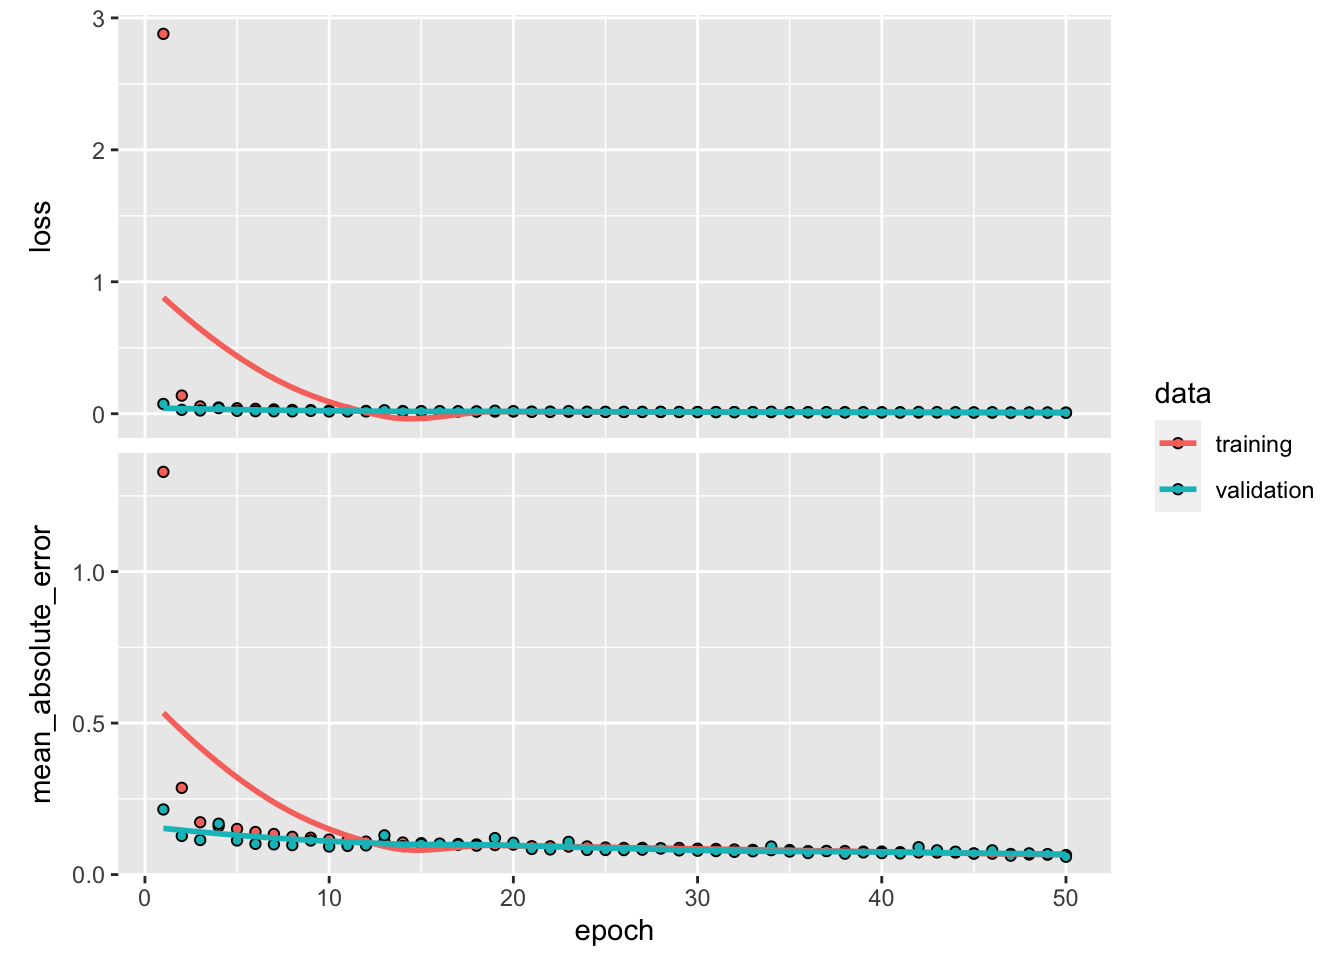
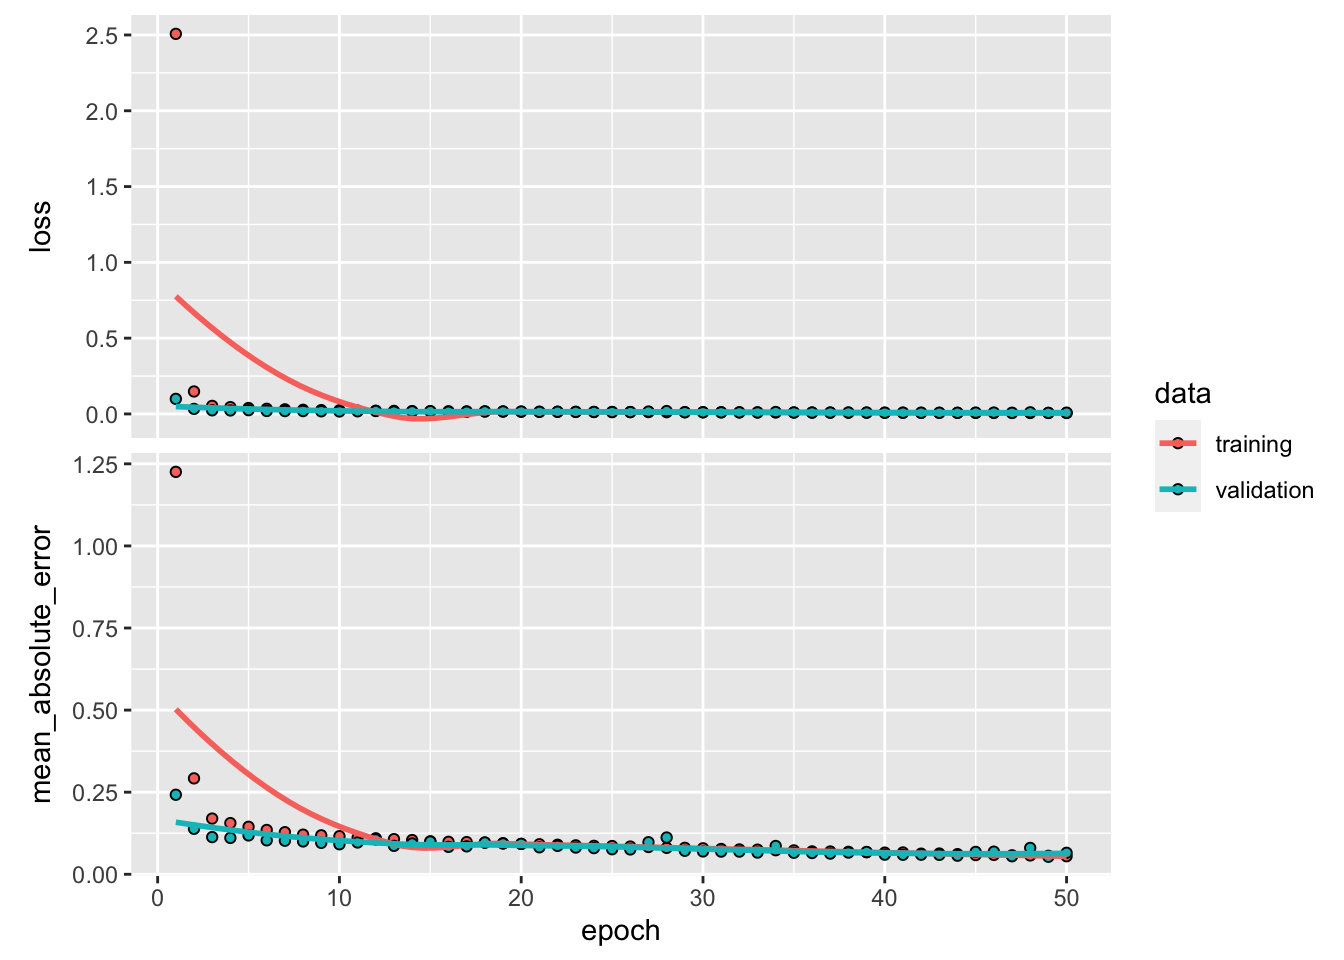
updated qmd

diff --git a/vignette.html b/vignette.html
@@ -248,16 +248,15 @@ dbl (1): Weekly California All Grades All Formulations Retail Gasoline Price...
 <p>Now that we have our data as a time series object we will get ready to do our neural network modeling. First we define our window size for our model which will be 10 in this case. The window size is the amount of previous observations that our model will use to predict the next point. We will also split our time series into a training and testing group using the first 80% for training and the remaining 20% for testing for validating the model’s performance on unseen data.</p>
 <div class="cell">
 <div class="sourceCode cell-code" id="cb16"><pre class="sourceCode r code-with-copy"><code class="sourceCode r"><span id="cb16-1"><a href="#cb16-1" aria-hidden="true" tabindex="-1"></a><span class="co"># Setting the sequences to length of 10</span></span>
-<span id="cb16-2"><a href="#cb16-2" aria-hidden="true" tabindex="-1"></a><span class="fu">set.seed</span>(<span class="dv">3722287</span>)</span>
-<span id="cb16-3"><a href="#cb16-3" aria-hidden="true" tabindex="-1"></a>window_size <span class="ot">&lt;-</span> <span class="dv">10</span></span>
-<span id="cb16-4"><a href="#cb16-4" aria-hidden="true" tabindex="-1"></a>train_size <span class="ot">&lt;-</span> <span class="fu">floor</span>(<span class="fu">length</span>(oil_ts) <span class="sc">*</span> <span class="fl">0.8</span>)  <span class="co"># 80% for training</span></span>
-<span id="cb16-5"><a href="#cb16-5" aria-hidden="true" tabindex="-1"></a></span>
-<span id="cb16-6"><a href="#cb16-6" aria-hidden="true" tabindex="-1"></a><span class="co"># Partitioning into training and testing dataset</span></span>
-<span id="cb16-7"><a href="#cb16-7" aria-hidden="true" tabindex="-1"></a>train_data <span class="ot">&lt;-</span> oil_ts[<span class="dv">1</span><span class="sc">:</span>train_size]</span>
-<span id="cb16-8"><a href="#cb16-8" aria-hidden="true" tabindex="-1"></a>test_data <span class="ot">&lt;-</span> oil_ts[(train_size <span class="sc">+</span> <span class="dv">1</span>)<span class="sc">:</span><span class="fu">length</span>(oil_ts)]</span>
-<span id="cb16-9"><a href="#cb16-9" aria-hidden="true" tabindex="-1"></a></span>
-<span id="cb16-10"><a href="#cb16-10" aria-hidden="true" tabindex="-1"></a>train_dates <span class="ot">&lt;-</span> <span class="fu">time</span>(oil_ts)[<span class="dv">1</span><span class="sc">:</span>train_size]</span>
-<span id="cb16-11"><a href="#cb16-11" aria-hidden="true" tabindex="-1"></a>test_dates <span class="ot">&lt;-</span> <span class="fu">time</span>(oil_ts)[(train_size <span class="sc">+</span> <span class="dv">1</span> <span class="sc">+</span> window_size)<span class="sc">:</span><span class="fu">length</span>(oil_ts)]</span></code><button title="Copy to Clipboard" class="code-copy-button"><i class="bi"></i></button></pre></div>
+<span id="cb16-2"><a href="#cb16-2" aria-hidden="true" tabindex="-1"></a>window_size <span class="ot">&lt;-</span> <span class="dv">10</span></span>
+<span id="cb16-3"><a href="#cb16-3" aria-hidden="true" tabindex="-1"></a>train_size <span class="ot">&lt;-</span> <span class="fu">floor</span>(<span class="fu">length</span>(oil_ts) <span class="sc">*</span> <span class="fl">0.8</span>)  <span class="co"># 80% for training</span></span>
+<span id="cb16-4"><a href="#cb16-4" aria-hidden="true" tabindex="-1"></a></span>
+<span id="cb16-5"><a href="#cb16-5" aria-hidden="true" tabindex="-1"></a><span class="co"># Partitioning into training and testing dataset</span></span>
+<span id="cb16-6"><a href="#cb16-6" aria-hidden="true" tabindex="-1"></a>train_data <span class="ot">&lt;-</span> oil_ts[<span class="dv">1</span><span class="sc">:</span>train_size]</span>
+<span id="cb16-7"><a href="#cb16-7" aria-hidden="true" tabindex="-1"></a>test_data <span class="ot">&lt;-</span> oil_ts[(train_size <span class="sc">+</span> <span class="dv">1</span>)<span class="sc">:</span><span class="fu">length</span>(oil_ts)]</span>
+<span id="cb16-8"><a href="#cb16-8" aria-hidden="true" tabindex="-1"></a></span>
+<span id="cb16-9"><a href="#cb16-9" aria-hidden="true" tabindex="-1"></a>train_dates <span class="ot">&lt;-</span> <span class="fu">time</span>(oil_ts)[<span class="dv">1</span><span class="sc">:</span>train_size]</span>
+<span id="cb16-10"><a href="#cb16-10" aria-hidden="true" tabindex="-1"></a>test_dates <span class="ot">&lt;-</span> <span class="fu">time</span>(oil_ts)[(train_size <span class="sc">+</span> <span class="dv">1</span> <span class="sc">+</span> window_size)<span class="sc">:</span><span class="fu">length</span>(oil_ts)]</span></code><button title="Copy to Clipboard" class="code-copy-button"><i class="bi"></i></button></pre></div>
 </div>
 <p>We also created lists of the dates for each group for plotting later on.</p>
 </section>
@@ -331,15 +330,16 @@ ________________________________________________________________________________
 <p>Now that we have created our model we will train it on our training data.</p>
 <div class="cell">
 <div class="sourceCode cell-code" id="cb22"><pre class="sourceCode r code-with-copy"><code class="sourceCode r"><span id="cb22-1"><a href="#cb22-1" aria-hidden="true" tabindex="-1"></a><span class="co"># Training the Model</span></span>
-<span id="cb22-2"><a href="#cb22-2" aria-hidden="true" tabindex="-1"></a>history <span class="ot">&lt;-</span> model <span class="sc">%&gt;%</span> <span class="fu">fit</span>(</span>
-<span id="cb22-3"><a href="#cb22-3" aria-hidden="true" tabindex="-1"></a>  <span class="at">x =</span> train_sequences_array,</span>
-<span id="cb22-4"><a href="#cb22-4" aria-hidden="true" tabindex="-1"></a>  <span class="at">y =</span> train_labels,</span>
-<span id="cb22-5"><a href="#cb22-5" aria-hidden="true" tabindex="-1"></a>  <span class="at">epochs =</span> <span class="dv">50</span>,</span>
-<span id="cb22-6"><a href="#cb22-6" aria-hidden="true" tabindex="-1"></a>  <span class="at">batch_size =</span> <span class="dv">16</span>,</span>
-<span id="cb22-7"><a href="#cb22-7" aria-hidden="true" tabindex="-1"></a>  <span class="at">validation_split =</span> <span class="fl">0.2</span></span>
-<span id="cb22-8"><a href="#cb22-8" aria-hidden="true" tabindex="-1"></a>)</span>
-<span id="cb22-9"><a href="#cb22-9" aria-hidden="true" tabindex="-1"></a></span>
-<span id="cb22-10"><a href="#cb22-10" aria-hidden="true" tabindex="-1"></a><span class="fu">plot</span>(history)</span></code><button title="Copy to Clipboard" class="code-copy-button"><i class="bi"></i></button></pre></div>
+<span id="cb22-2"><a href="#cb22-2" aria-hidden="true" tabindex="-1"></a><span class="fu">set.seed</span>(<span class="dv">3722287</span>)</span>
+<span id="cb22-3"><a href="#cb22-3" aria-hidden="true" tabindex="-1"></a>history <span class="ot">&lt;-</span> model <span class="sc">%&gt;%</span> <span class="fu">fit</span>(</span>
+<span id="cb22-4"><a href="#cb22-4" aria-hidden="true" tabindex="-1"></a>  <span class="at">x =</span> train_sequences_array,</span>
+<span id="cb22-5"><a href="#cb22-5" aria-hidden="true" tabindex="-1"></a>  <span class="at">y =</span> train_labels,</span>
+<span id="cb22-6"><a href="#cb22-6" aria-hidden="true" tabindex="-1"></a>  <span class="at">epochs =</span> <span class="dv">50</span>,</span>
+<span id="cb22-7"><a href="#cb22-7" aria-hidden="true" tabindex="-1"></a>  <span class="at">batch_size =</span> <span class="dv">16</span>,</span>
+<span id="cb22-8"><a href="#cb22-8" aria-hidden="true" tabindex="-1"></a>  <span class="at">validation_split =</span> <span class="fl">0.2</span></span>
+<span id="cb22-9"><a href="#cb22-9" aria-hidden="true" tabindex="-1"></a>)</span>
+<span id="cb22-10"><a href="#cb22-10" aria-hidden="true" tabindex="-1"></a></span>
+<span id="cb22-11"><a href="#cb22-11" aria-hidden="true" tabindex="-1"></a><span class="fu">plot</span>(history)</span></code><button title="Copy to Clipboard" class="code-copy-button"><i class="bi"></i></button></pre></div>
 <div class="cell-output-display">
 <p><img src="vignette_files/figure-html/unnamed-chunk-14-1.png" class="img-fluid" width="672"></p>
 </div>
@@ -358,7 +358,7 @@ ________________________________________________________________________________
 <span id="cb23-6"><a href="#cb23-6" aria-hidden="true" tabindex="-1"></a><span class="co"># Evaluating function</span></span>
 <span id="cb23-7"><a href="#cb23-7" aria-hidden="true" tabindex="-1"></a>results <span class="ot">&lt;-</span> model <span class="sc">%&gt;%</span> <span class="fu">evaluate</span>(test_sequences_matrix, test_labels)</span></code><button title="Copy to Clipboard" class="code-copy-button"><i class="bi"></i></button></pre></div>
 <div class="cell-output cell-output-stdout">
-<pre><code>8/8 - 0s - loss: 0.0275 - mean_absolute_error: 0.1000 - 65ms/epoch - 8ms/step</code></pre>
+<pre><code>8/8 - 0s - loss: 0.0203 - mean_absolute_error: 0.0820 - 121ms/epoch - 15ms/step</code></pre>
 </div>
 </div>
 <p>It seems that our model did slightly worse on our testing data with a mean absolute error of 0.08 but it still performs very well. Also, we will be comparing this mean absolute error with our ARIMA model forecast in the future.</p>
@@ -369,7 +369,7 @@ ________________________________________________________________________________
 <div class="cell">
 <div class="sourceCode cell-code" id="cb25"><pre class="sourceCode r code-with-copy"><code class="sourceCode r"><span id="cb25-1"><a href="#cb25-1" aria-hidden="true" tabindex="-1"></a>predictions <span class="ot">&lt;-</span> model <span class="sc">%&gt;%</span> <span class="fu">predict</span>(test_sequences_matrix)</span></code><button title="Copy to Clipboard" class="code-copy-button"><i class="bi"></i></button></pre></div>
 <div class="cell-output cell-output-stdout">
-<pre><code>8/8 - 1s - 978ms/epoch - 122ms/step</code></pre>
+<pre><code>8/8 - 1s - 1s/epoch - 132ms/step</code></pre>
 </div>
 <div class="sourceCode cell-code" id="cb27"><pre class="sourceCode r code-with-copy"><code class="sourceCode r"><span id="cb27-1"><a href="#cb27-1" aria-hidden="true" tabindex="-1"></a><span class="co"># Plot predictions against actual values</span></span>
 <span id="cb27-2"><a href="#cb27-2" aria-hidden="true" tabindex="-1"></a><span class="fu">plot</span>(test_dates, test_labels, <span class="at">type =</span> <span class="st">'l'</span>, <span class="at">main=</span><span class="st">"LSTM Forecasting: Future Gasoline Prices"</span>, <span class="at">col =</span> <span class="st">'blue'</span>, <span class="at">ylab =</span> <span class="st">'Gasoline Prices'</span>, <span class="at">xlab =</span> <span class="st">'Year'</span>)</span>
